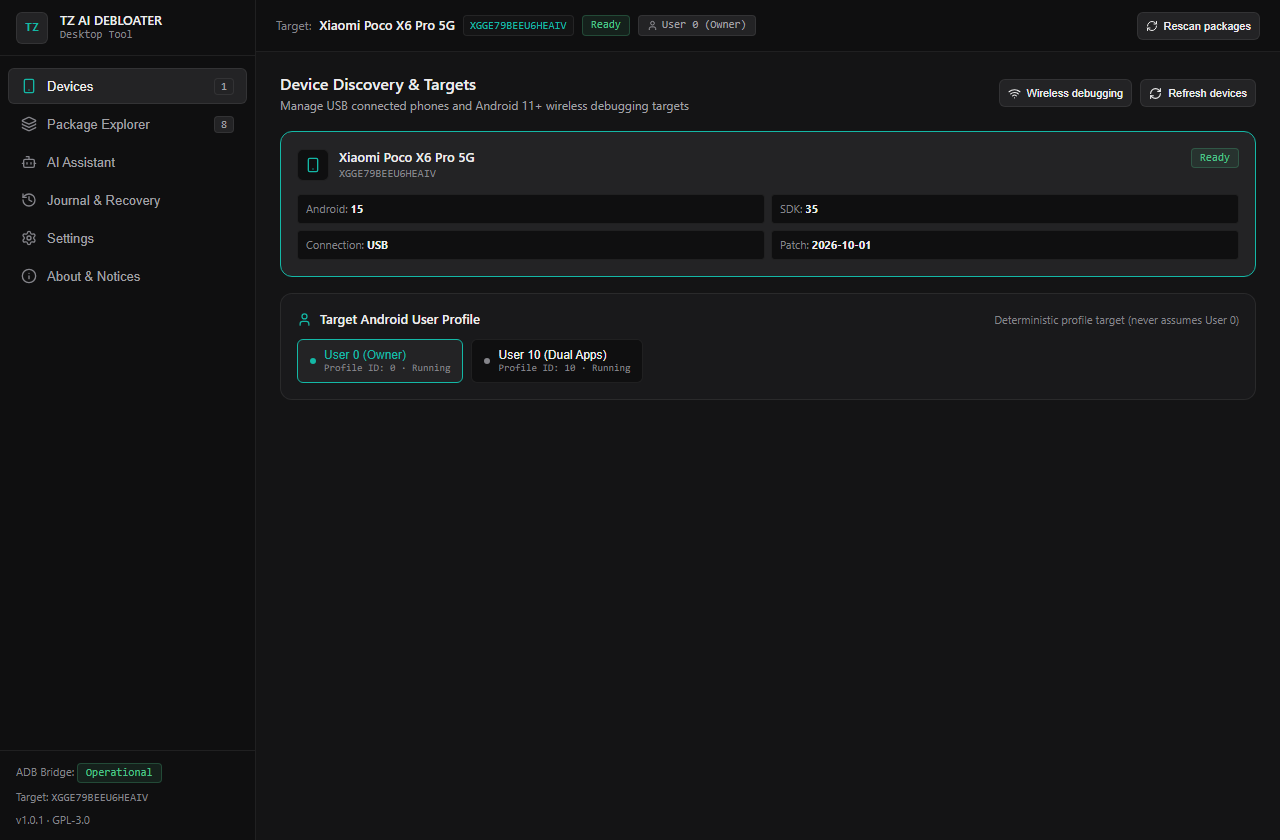
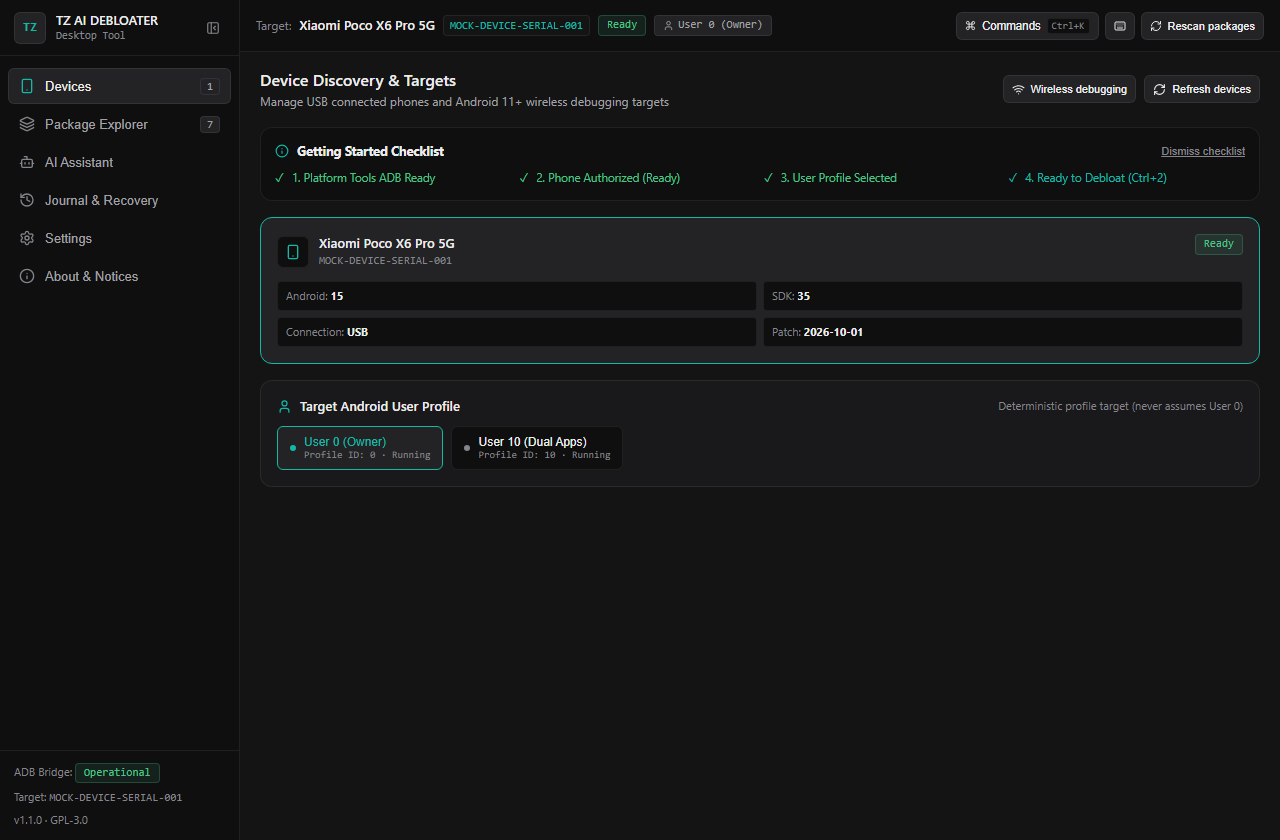
fix(ci): update macOS runners to macos-15/macos-15-intel, bump to Node 22, and sanitize device identifiers

diff --git a/src/components/ActionPlanReview.tsx b/src/components/ActionPlanReview.tsx
@@ -66,7 +66,7 @@ export const ActionPlanReview: React.FC<Props> = ({
             verified: true,
             execution_backend: 'DirectAdbPm',
             command_args: ['pm', 'uninstall', '-k', '--user', '0', 'com.facebook.appmanager'],
-            target_device: 'XGGE79BEEU6HEAIV',
+            target_device: 'MOCK-DEVICE-SERIAL-001',
             target_user_id: 0,
             raw_stdout: 'Success\n',
             raw_stderr: '',
@@ -83,7 +83,7 @@ export const ActionPlanReview: React.FC<Props> = ({
             classified_cause: 'MissingPrivileges',
             execution_backend: 'DirectAdbPm',
             command_args: ['pm', 'disable-user', '--user', '0', 'com.miui.msa.global'],
-            target_device: 'XGGE79BEEU6HEAIV',
+            target_device: 'MOCK-DEVICE-SERIAL-001',
             target_user_id: 0,
             raw_stdout: '',
             raw_stderr: 'Error: java.lang.SecurityException: Neither user 2000 nor current process has android.permission.MANAGE_USERS.\n',
@@ -99,7 +99,7 @@ export const ActionPlanReview: React.FC<Props> = ({
             verified: false,
             execution_backend: 'DirectAdbPm',
             command_args: [],
-            target_device: 'XGGE79BEEU6HEAIV',
+            target_device: 'MOCK-DEVICE-SERIAL-001',
             target_user_id: 0,
             raw_stdout: '',
             raw_stderr: '',

diff --git a/src/App.tsx b/src/App.tsx
@@ -69,7 +69,7 @@ const getInitialPlan = (): ActionPlan | null => {
     return {
       id: 'plan-poco-debloat-2026',
       revision: 1,
-      target_device_serial: 'XGGE79BEEU6HEAIV',
+      target_device_serial: 'MOCK-DEVICE-SERIAL-001',
       target_user_id: 0,
       explanation: 'Remove non-essential Facebook services and disable MIUI advertising services on User 0 (Owner).',
       preserved_functionality: ['Phone calls and SMS', 'Camera and Gallery', 'Default HyperOS navigation'],
